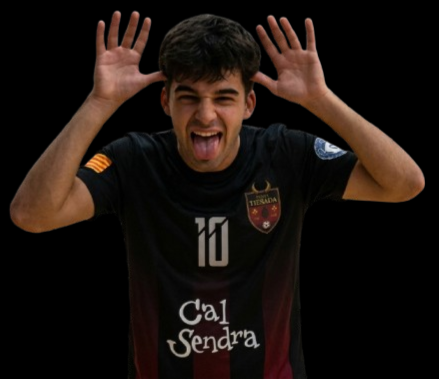
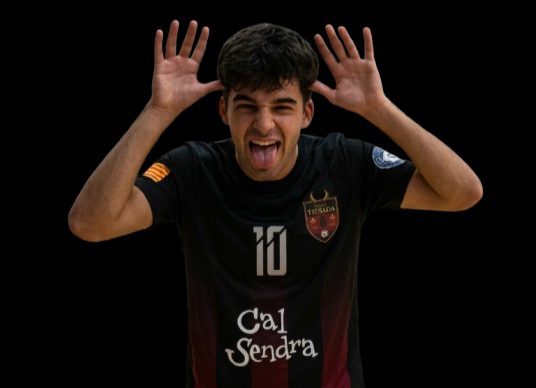
Actualizar MatchDetail y fotos de jugadores

diff --git a/src/components/MatchDetail.jsx b/src/components/MatchDetail.jsx
@@ -628,7 +628,7 @@ function TimelineChart({ match, matchStats }) {
 // ── Component principal ───────────────────────────────────────────
 export default function MatchDetail({ match, onBack, onNavigate }) {
   const [videoStart, setVideoStart] = useState(0);
-  const [videoOpen, setVideoOpen] = useState(false);
+  const [videoOpen, setVideoOpen] = useState(true);
 
   const allMatches = DATABASE.matches;
   const currentIdx = allMatches.findIndex(m => m.id === match.id);
